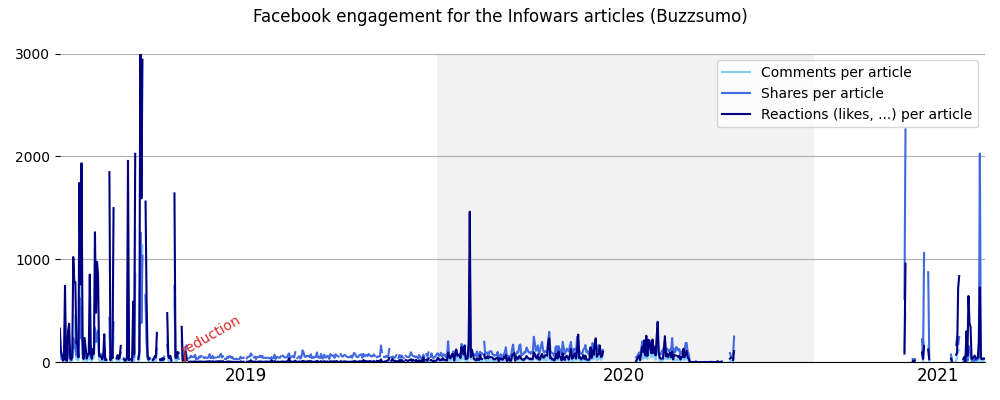
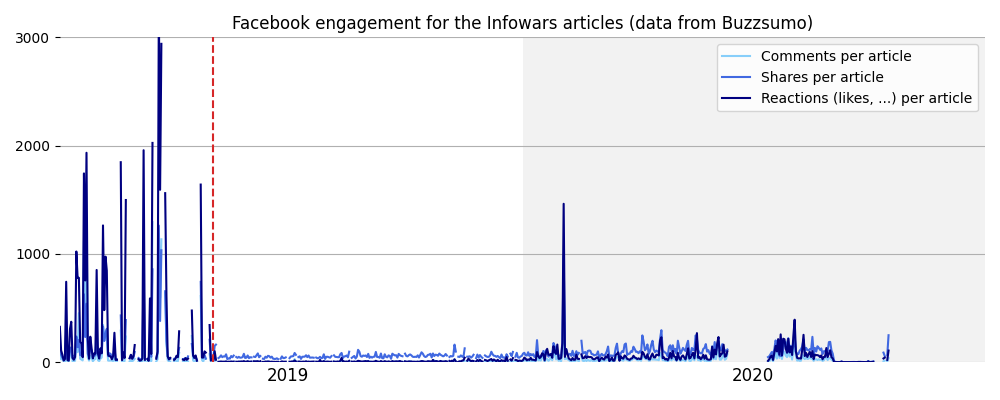
make the figures easier to understand

diff --git a/code/create_figures.py b/code/create_figures.py
@@ -19,6 +19,22 @@ def save_figure(figure_name):
     print("The '{}' figure is saved.".format(figure_name))
 
 
+def arrange_plot(ax, df):
+
+    ax.set_frame_on(False)
+    ax.grid(axis="y")
+    plt.locator_params(axis='y', nbins=4)
+
+    plt.xticks(
+        [np.datetime64('2019-06-30'), np.datetime64('2020-06-30'), np.datetime64('2021-04-30')],
+        ['2019', '2020', '2021'], fontsize='large'
+    )
+    ax.xaxis.set_tick_params(length=0)
+    plt.axvspan(np.datetime64('2020-01-01'), np.datetime64('2020-12-31'), 
+                ymin=0, ymax=200000, facecolor='k', alpha=0.05)
+    plt.xlim(np.min(df['date']), np.max(df['date']))
+
+
 def create_suspension_facebook_trump_figure():
 
     print()
@@ -32,31 +48,20 @@ def create_suspension_facebook_trump_figure():
         index=[pd.Timestamp(2021, 1, 7), pd.Timestamp(2021, 6, 15)]
     ))
 
-    plt.figure(figsize=(8, 3))
-    plt.title(df.account_name.iloc[0])
-    plt.plot(serie_to_plot, color='royalblue', label='Number of Facebook posts per day')
-    plt.legend()
+    plt.figure(figsize=(10, 4))
+    plt.title("'" + df.account_name.iloc[0] + "' Facebook page (data from CrowdTangle)")
 
     ax = plt.subplot(111)
-    ax.set_frame_on(False)
-    ax.grid(axis="y")
-    plt.locator_params(axis='y', nbins=4)
+    plt.plot(serie_to_plot, color='royalblue', label='Number of posts per day')
+    plt.legend()
 
+    arrange_plot(ax, df)
+    plt.axvline(np.datetime64("2021-01-07"), color='C3', linestyle='--')
     plt.xlim(
         np.datetime64(datetime.strptime('2019-12-31', '%Y-%m-%d')), 
         np.datetime64(datetime.strptime('2021-06-15', '%Y-%m-%d'))
     )
-    plt.ylim(-1, 55)
-
-    xticks = [np.datetime64('2020-01-01'), np.datetime64('2020-04-01'), 
-              np.datetime64('2020-07-01'), np.datetime64('2020-10-01'),
-              np.datetime64('2021-01-01'), np.datetime64('2021-04-01'),
-             ]
-    plt.xticks(xticks, rotation=30, ha='right')
-    plt.axvspan(np.datetime64('2021-01-06'), np.datetime64('2021-06-15'), 
-                ymin=0, ymax=200000, facecolor='r', alpha=0.05)
-
-    plt.text(np.datetime64('2021-02-07'), 45, 'Suspension period', color='r')
+    plt.ylim(0, 55)
 
     plt.tight_layout()
     save_figure('facebook_crowdtangle_trump.png')
@@ -102,30 +107,6 @@ def print_the_percentage_changes(df, date='2019-05-02', period=60):
         '%.'
     )
 
-def arrange_plot(ax):
-
-    ax.spines['right'].set_visible(False)
-    ax.spines['left'].set_visible(False)
-    ax.spines['top'].set_visible(False)
-    ax.grid(axis="y")
-    plt.locator_params(axis='y', nbins=4)
-
-    plt.xlim(
-        np.datetime64(datetime.strptime('2019-01-01', '%Y-%m-%d')), 
-        np.datetime64(datetime.strptime('2021-06-15', '%Y-%m-%d'))
-    )
-    plt.xticks(
-        [np.datetime64('2019-06-30'), np.datetime64('2020-06-30'), np.datetime64('2021-04-30')],
-        ['2019', '2020', '2021'], fontsize='large'
-    )
-    ax.xaxis.set_tick_params(length=0)
-    plt.axvspan(np.datetime64('2020-01-01'), np.datetime64('2020-12-31'), 
-                ymin=0, ymax=200000, facecolor='k', alpha=0.05)
-
-    plt.plot([np.datetime64("2019-05-02"), np.datetime64("2019-05-02")], [0, 70], color='C3', linestyle='--')
-    plt.text(np.datetime64(datetime.strptime("2019-05-02", '%Y-%m-%d') - timedelta(days=5)), 
-                71, "reduction", size='medium', color='C3', rotation=30)
-
 
 def create_facebook_crowdtangle_infowars_figure():
 
@@ -136,14 +117,17 @@ def create_facebook_crowdtangle_infowars_figure():
     print('There are {} posts after removing the indirect links in the CrowdTangle Infowars date.'.format(len(df)))
     print_the_percentage_changes(df, date='2019-05-02', period=60)
 
-    fig = plt.figure(figsize=(10, 8))
-    fig.suptitle('Facebook posts sharing an Infowars link (CrowdTangle)')
+    plt.figure(figsize=(10, 8))
     
     ax = plt.subplot(211)
+    plt.title('Facebook public posts sharing an Infowars link (data from CrowdTangle)')
+
     plt.plot(df.resample('D', on='date')['date'].agg('count'),
-        label='Number of Facebook posts per day', color='royalblue')
+        label='Number of posts per day', color='royalblue')
     plt.legend()
-    arrange_plot(ax)
+
+    arrange_plot(ax, df)
+    plt.axvline(np.datetime64("2019-05-02"), color='C3', linestyle='--')
     plt.ylim(0, 160)
 
     ax = plt.subplot(212)
@@ -154,7 +138,9 @@ def create_facebook_crowdtangle_infowars_figure():
     plt.plot(df.resample('D', on='date')['reaction'].mean(),
         label="Reactions (likes, ...) per post", color='navy')
     plt.legend()
-    arrange_plot(ax)
+
+    arrange_plot(ax, df)
+    plt.axvline(np.datetime64("2019-05-02"), color='C3', linestyle='--')
     plt.ylim(0, 78)
 
     plt.tight_layout()
@@ -188,9 +174,10 @@ def create_facebook_buzzsumo_infowars_figure():
 
     df = import_data('facebook_buzzsumo_infowars_2021-06-29.csv')
     df = clean_buzzsumo_data(df)
+    print('There are {} Infowars articles for 2019 and 2020 in the Buzzsumo API.'.format(len(df)))
 
     fig = plt.figure(figsize=(10, 4))
-    fig.suptitle('Facebook engagement for the Infowars articles (Buzzsumo)')
+    plt.title('Facebook engagement for the Infowars articles (data from Buzzsumo)')
 
     ax = plt.subplot(111)
     plt.plot(filter(df, 'facebook_comments'),
@@ -200,7 +187,9 @@ def create_facebook_buzzsumo_infowars_figure():
     plt.plot(filter(df, 'facebook_likes'),
         label="Reactions (likes, ...) per article", color='navy')
     plt.legend()
-    arrange_plot(ax)
+
+    arrange_plot(ax, df)
+    plt.axvline(np.datetime64("2019-05-02"), color='C3', linestyle='--')
     plt.ylim(0, 3000)
 
     plt.tight_layout()
@@ -209,6 +198,6 @@ def create_facebook_buzzsumo_infowars_figure():
 
 if __name__=="__main__":
 
-    # create_suspension_facebook_trump_figure()
-    # create_facebook_crowdtangle_infowars_figure()
+    create_suspension_facebook_trump_figure()
+    create_facebook_crowdtangle_infowars_figure()
     create_facebook_buzzsumo_infowars_figure()

diff --git a/code/collect_facebook_buzzsumo_infowars_data.py b/code/collect_facebook_buzzsumo_infowars_data.py
@@ -14,5 +14,5 @@ if __name__=="__main__":
         token=os.getenv('BUZZSUMO_TOKEN'),
         output_path=os.path.join('.', 'data', 'facebook_buzzsumo_infowars_' + str(date.today()) + '.csv'),
         begin_date='2019-01-01', 
-        end_date='2021-06-15'
+        end_date='2020-12-31'
     )

diff --git a/README.md b/README.md
@@ -32,7 +32,7 @@ To collect the Trump Facebook data from CrowdTangle, run (the collection takes a
 ./code/collect_facebook_crowdtangle_trump_data.sh 1559721
 ```
 
-To collect the Infowars Facebook data from CrowdTangle, run (takes around 30 minutes):
+To collect the Infowars Facebook data from CrowdTangle, run (takes around 20 minutes):
 
 ```
 ./code/collect_facebook_crowdtangle_infowars_data.sh
